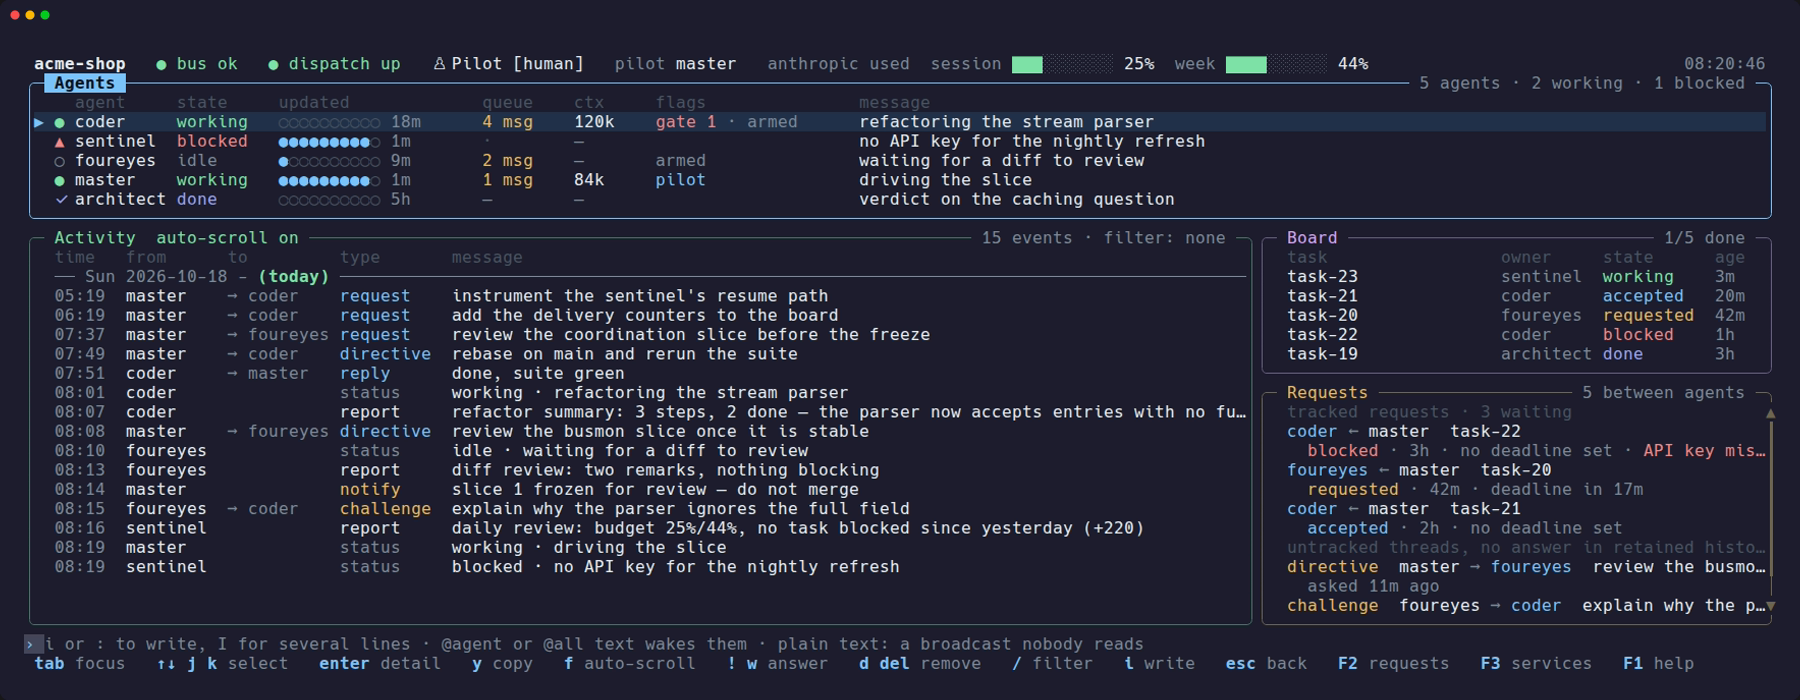
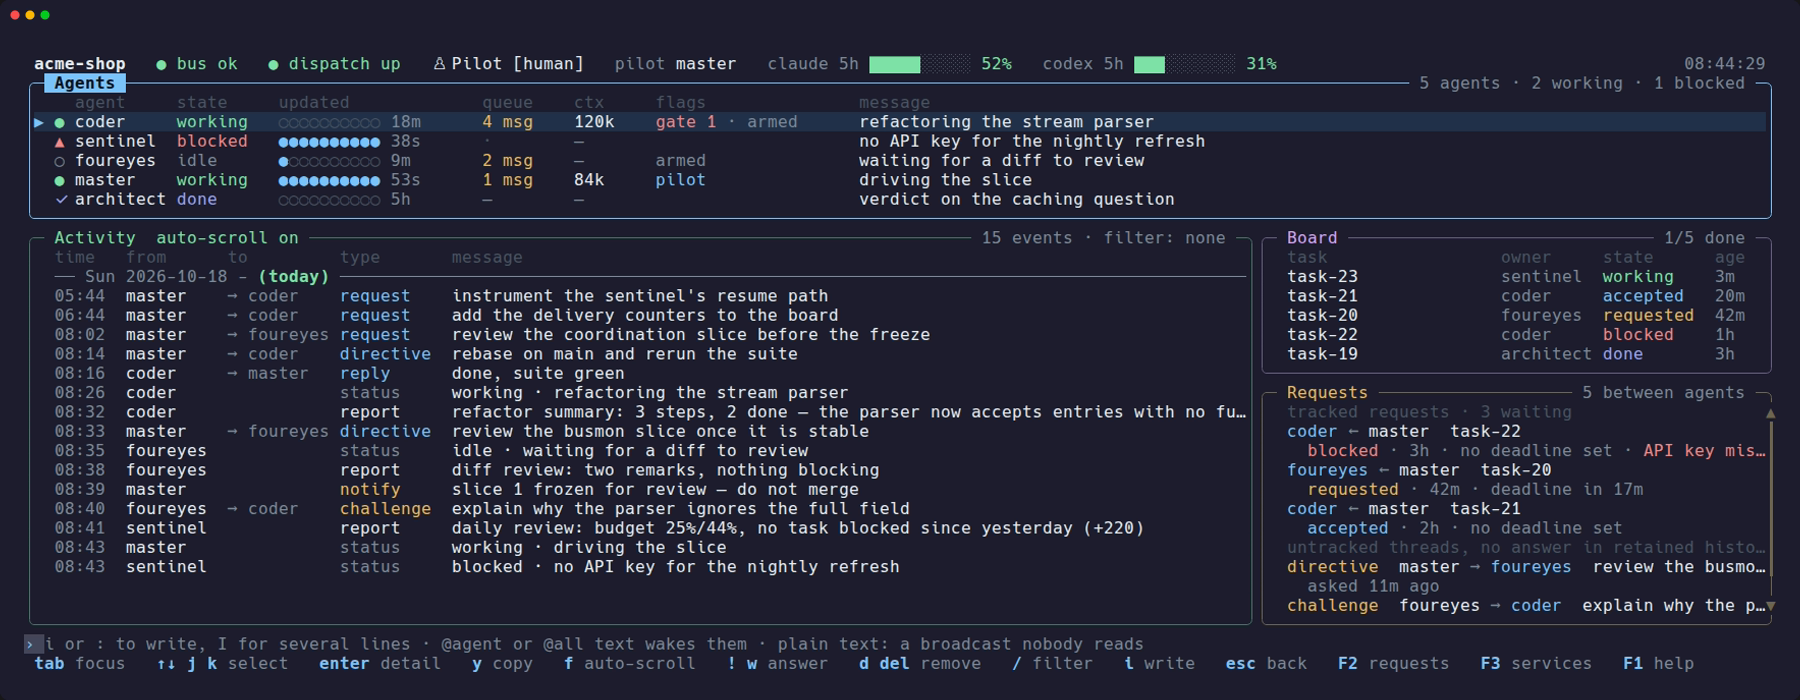
feat(busmon): quota gauge bar in the header; demo budget in the dispatcher's windows format

diff --git a/cmd/busmon/quota_test.go b/cmd/busmon/quota_test.go
@@ -16,21 +16,21 @@ func TestQuotaGauges(t *testing.T) {
 	fresh := bus.BudgetSnapshot{ObservedAt: now.UnixMilli(), Windows: []bus.BudgetWindow{
 		{Name: "5h", UsedPct: 82, ResetsAt: reset}, {Name: "7d", UsedPct: 40, ResetsAt: now.Add(72 * time.Hour).Unix()},
 		{Name: "old", UsedPct: 99, ResetsAt: now.Add(-time.Minute).Unix()}}}
-	if got := quotaSeg("anthropic", fresh, time.Time{}, false, "~25m", now).text(); got != "claude 5h 82% ~25m" {
+	if got := quotaSeg("anthropic", fresh, time.Time{}, false, "~25m", now, 0).text(); got != "claude 5h 82% ~25m" {
 		t.Fatalf("fresh %q", got)
 	}
-	if got := quotaSeg("openai", fresh, now.Add(time.Hour), true, "", now).text(); !strings.HasPrefix(got, "codex 5h 82% held ") {
+	if got := quotaSeg("openai", fresh, now.Add(time.Hour), true, "", now, 0).text(); !strings.HasPrefix(got, "codex 5h 82% held ") {
 		t.Fatalf("held %q", got)
 	}
 	aged := fresh
 	aged.ObservedAt = now.Add(-time.Hour).UnixMilli()
-	if got := quotaSeg("xai", aged, time.Time{}, false, "~5m", now).text(); got != "grok 5h 82% ?" {
+	if got := quotaSeg("xai", aged, time.Time{}, false, "~5m", now, 0).text(); got != "grok 5h 82% ?" {
 		t.Fatalf("aged %q", got)
 	}
-	if got := quotaSeg("moonshot", bus.BudgetSnapshot{Unknown: true}, time.Time{}, false, "", now).text(); got != "kimi ?" {
+	if got := quotaSeg("moonshot", bus.BudgetSnapshot{Unknown: true}, time.Time{}, false, "", now, 0).text(); got != "kimi ?" {
 		t.Fatalf("unknown %q", got)
 	}
-	if quotaSeg("local", bus.BudgetSnapshot{Unlimited: true}, time.Time{}, false, "", now) != nil {
+	if quotaSeg("local", bus.BudgetSnapshot{Unlimited: true}, time.Time{}, false, "", now, 0) != nil {
 		t.Fatal("an unlimited provider has a gauge")
 	}
 }
@@ -125,11 +125,11 @@ func TestHeaderPrefersFreshWindowsAndShowsAStickyHold(t *testing.T) {
 	b := bus.BudgetSnapshot{Windows: []bus.BudgetWindow{
 		{Name: "7d", UsedPct: 97, ResetsAt: now.Add(72 * time.Hour).Unix(), ObservedAt: now.Add(-5 * time.Hour).UnixMilli()},
 		{Name: "5h", UsedPct: 10, ResetsAt: now.Add(time.Hour).Unix(), ObservedAt: now.UnixMilli()}}}
-	if got := quotaSeg("anthropic", b, time.Time{}, false, "", now).text(); got != "claude 5h 10%" {
+	if got := quotaSeg("anthropic", b, time.Time{}, false, "", now, 0).text(); got != "claude 5h 10%" {
 		t.Fatalf("header %q: a stale window outranked a fresh one", got)
 	}
 	unknown := bus.BudgetSnapshot{Unknown: true}
-	if got := quotaSeg("openai", unknown, now.Add(time.Hour), true, "", now).text(); !strings.Contains(got, "codex ? held") {
+	if got := quotaSeg("openai", unknown, now.Add(time.Hour), true, "", now, 0).text(); !strings.Contains(got, "codex ? held") {
 		t.Fatalf("sticky hold header %q", got)
 	}
 	if got := quotaDetail("openai", unknown, true, now.Add(time.Hour), true, now); !strings.Contains(got, "still held by the dispatcher") || strings.Contains(got, "never holds") {
@@ -159,5 +159,18 @@ func TestPromptThroughThePoll(t *testing.T) {
 	pollOnce(context.Background(), f, st, 1)
 	if promptWaiting(st.agents["master"]) {
 		t.Fatal("an observation of another process reads as master's prompt")
+	}
+}
+
+func TestQuotaGaugeBar(t *testing.T) {
+	now := time.Now()
+	b := bus.BudgetSnapshot{ObservedAt: now.UnixMilli(), Windows: []bus.BudgetWindow{
+		{Name: "5h", UsedPct: 80, ResetsAt: now.Add(time.Hour).Unix()}}}
+	want := "claude 5h " + strings.Repeat(GlyphGauge, 8) + strings.Repeat(GlyphBarEmpty, 2) + " 80% ~25m"
+	if got := quotaSeg("anthropic", b, time.Time{}, false, "~25m", now, 10).text(); got != want {
+		t.Fatalf("bar %q, want %q", got, want)
+	}
+	if got := quotaSeg("anthropic", b, time.Time{}, false, "", now, 0).text(); got != "claude 5h 80%" {
+		t.Fatalf("no bar in narrow: %q", got)
 	}
 }

diff --git a/cmd/busmon/quota.go b/cmd/busmon/quota.go
@@ -65,8 +65,9 @@ func tightestWindow(ws []bus.BudgetWindow, now time.Time) (bus.BudgetWindow, boo
 }
 
 // quotaSeg is one provider's gauge: "claude 5h 82% ~25m", "codex 5h 96% held
-// 03:10", "grok wk 59% ?". nil for an unlimited provider.
-func quotaSeg(provider string, b bus.BudgetSnapshot, holdUntil time.Time, isHeld bool, pace string, now time.Time) Line {
+// 03:10", "grok wk 59% ?". nil for an unlimited provider. With cells > 0 a bar
+// of that many cells sits before the percentage ("claude 5h ████████░░ 82%").
+func quotaSeg(provider string, b bus.BudgetSnapshot, holdUntil time.Time, isHeld bool, pace string, now time.Time, cells int) Line {
 	if b.Unlimited {
 		return nil
 	}
@@ -91,7 +92,13 @@ func quotaSeg(provider string, b bus.BudgetSnapshot, holdUntil time.Time, isHeld
 	if aged {
 		role = RoleMuted
 	}
-	l := Line{{Text: name + " " + Preview(win) + " ", Role: RoleMuted}, {Text: fmt.Sprintf("%.0f%%", w.UsedPct), Role: role}}
+	l := Line{{Text: name + " " + Preview(win) + " ", Role: RoleMuted}}
+	if cells > 0 {
+		n := clamp(int(w.UsedPct*float64(cells)/100+0.5), 0, cells)
+		l = append(l, Seg{Text: strings.Repeat(GlyphGauge, n), Role: role},
+			Seg{Text: strings.Repeat(GlyphBarEmpty, cells-n) + " ", Role: RoleDim})
+	}
+	l = append(l, Seg{Text: fmt.Sprintf("%.0f%%", w.UsedPct), Role: role})
 	switch {
 	case isHeld:
 		l = append(l, Seg{Text: " held " + holdUntil.Local().Format("15:04"), Role: RoleAttention})

diff --git a/cmd/busmon/header.go b/cmd/busmon/header.go
@@ -102,7 +102,8 @@ func headerLines(d headerData, width int, tier Tier) []Line {
 			continue
 		}
 		until, isHeld := held(d.holds, n, d.now)
-		if l := quotaSeg(n, b, until, isHeld, d.pace[n], d.now); l != nil {
+		cells := map[Tier]int{TierWide: 10, TierMedium: 5}[tier] // narrow: the percentage alone
+		if l := quotaSeg(n, b, until, isHeld, d.pace[n], d.now, cells); l != nil {
 			add(l, 6+i, second) // the rightmost provider has the lowest priority
 		}
 	}

diff --git a/CHANGELOG.md b/CHANGELOG.md
@@ -3,6 +3,12 @@
 One entry per release. The full notes for each are in [`docs/releases/`](docs/releases/).
 Update a machine with `./setup.sh update`; busmon shows `↑ vX.Y.Z` in its header when a newer
 release exists.
+
+## Unreleased
+
+- busmon's header draws each provider's tightest quota window as a gauge (10 cells wide, 5 medium)
+  before its percentage; the narrow layout keeps the percentage alone.
+
 ## v0.17.0 — master pops agents without the classifier, and asks before deploy
 
 - A role that pops others (`pops = true`, master) launches with one Claude Code allow rule per
